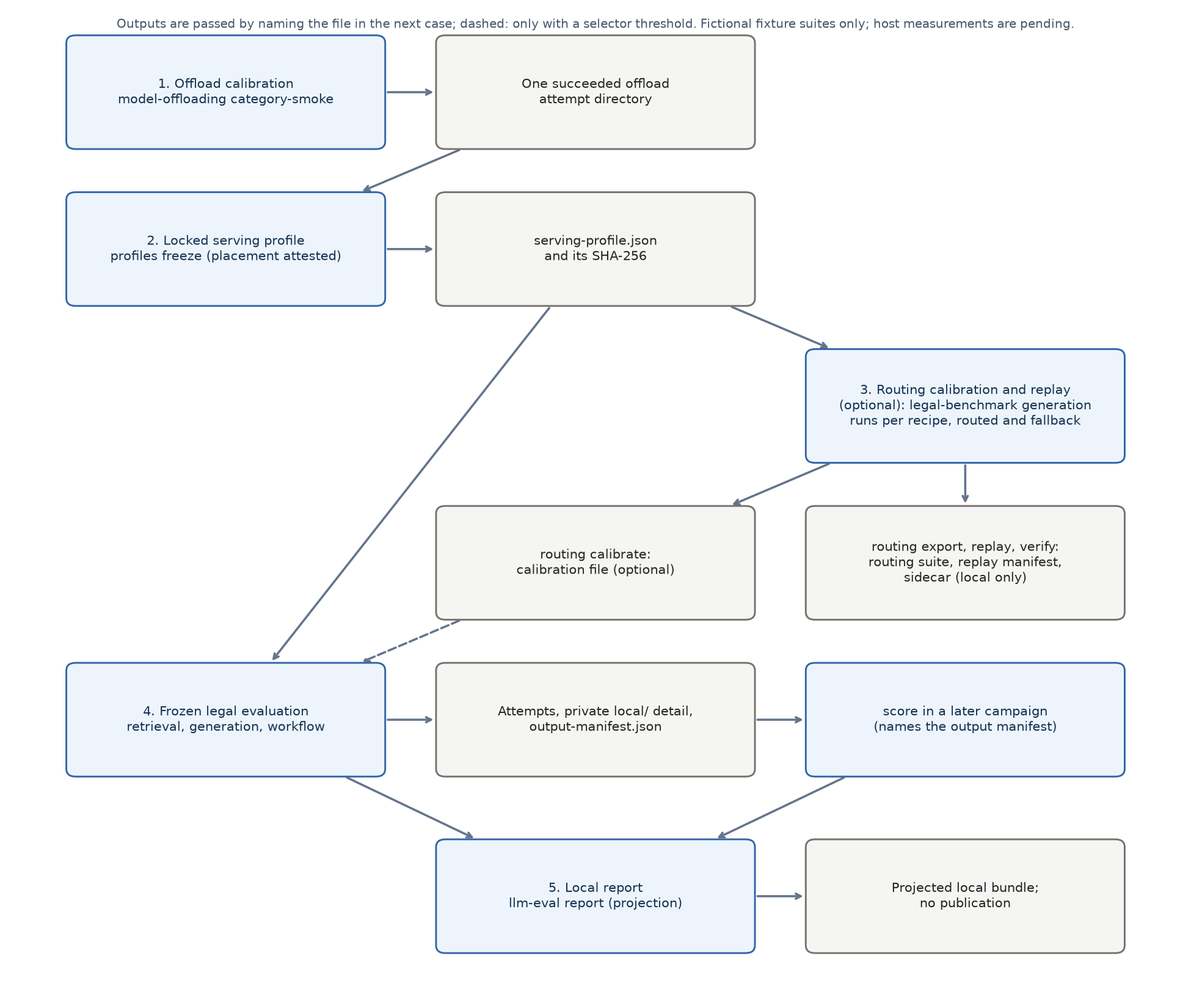
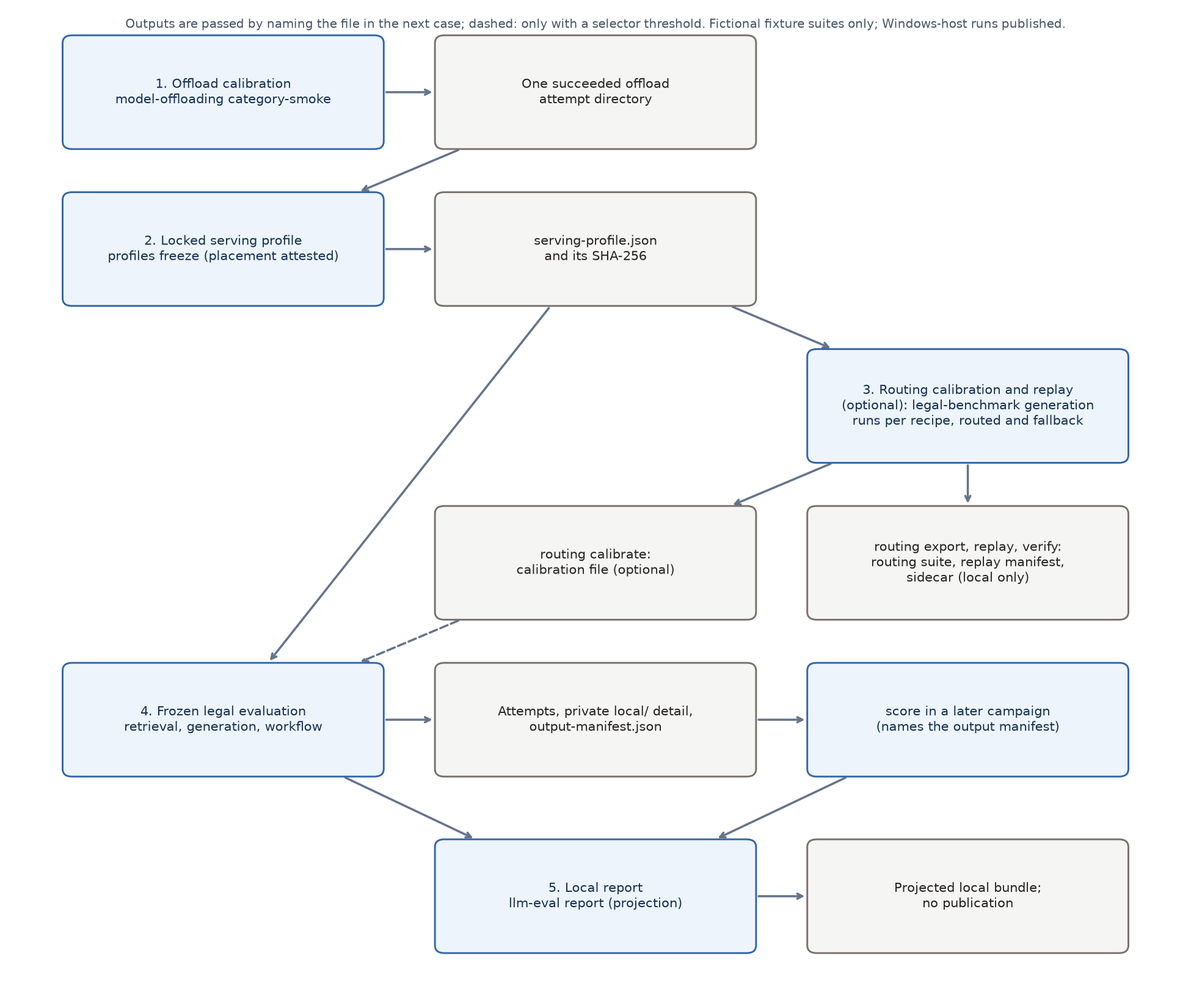
Say that four legal result bundles are published
Four bundles of the approved public-synthetic fixture suite
`legal-original-smoke` were run on the Windows host on 2026-11-15 and
published on 2026-11-17 (generation, workflow, score and retrieval),
each after its own authorization. The documents still said that no
legal bundle was published and that no host measurement existed.

- The results guide, the walkthrough, the experiment README and the
  examples README now say what was published, that publication stays
  a separately authorized step and never part of a campaign, and that
  human review of the outputs is pending. A correction from that
  review is a new bundle with its own authorization.
- The four authorizations were written through the `confirm` hook of
  `reporting.authorize`, from the operator's written instruction, not
  by typing the run id back on a terminal. The experiment README and
  the walkthrough said only the terminal path, so both name the hook.
- The top-level README row, the experiment README status banner, the
  walkthrough provenance note, its target-host line and the pointer to
  the host cells are dated to 2026-11-13 and point to the published
  runs. The sentence "Host measurements are pending." stays because a
  test pins it, and now says it describes the walkthrough as written.
- The subtitle of the legal workflow diagram said that host
  measurements are pending. It now says that Windows-host runs are
  published, and the PNG is re-rendered from scripts/render_legal_diagram.py
[…]

diff --git a/scripts/render_legal_diagram.py b/scripts/render_legal_diagram.py
@@ -47,7 +47,7 @@ for label,x,y,stage in NODES.values():
                              edgecolor='#3265a8' if stage else '#78716c',linewidth=1.4,zorder=2))
  ax.text(x,y,label,ha='center',va='center',fontsize=10,color='#173452' if stage else '#292524',zorder=3)
 ax.text(.5,.995,'Outputs are passed by naming the file in the next case; dashed: only with a selector threshold. '
-        'Fictional fixture suites only; host measurements are pending.',ha='center',va='top',fontsize=9.5,color='#475569')
+        'Fictional fixture suites only; Windows-host runs published.',ha='center',va='top',fontsize=9.5,color='#475569')
 fig.tight_layout();fig.savefig(ROOT/'diagrams/legal-benchmark-workflow.png',dpi=150,metadata={'Software':'llm-eval'});plt.close(fig)
 source=('# Legal benchmark workflow\n\nThe five stages of the [legal benchmark walkthrough](../docs/LEGAL_BENCHMARK_WALKTHROUGH.md) and the explicit '
         'output of each. A phase dependency only orders jobs; the next stage names the output file in its case. Stage 3 is '

diff --git a/experiments/legal-benchmark/README.md b/experiments/legal-benchmark/README.md
@@ -2,9 +2,9 @@
 
 Measures whether locally served models can retrieve applicable law, analyze a matter packet and draft a source-grounded internal screening memo **for human review**. The experiment never files, charges, contacts anyone or discloses evidence, and every output carries `review_required: true`.
 
-Status: **[issue #45](https://github.com/asanderson/llm-eval/issues/45): every mode implemented; host measurements pending**. The offline `smoke` mode runs a deterministic rule-based pipeline over fictional matters with no model, network or GPU, to pin the contracts and prove the campaign loop. The `retrieval` mode measures retrieval arms over the same suites. The `generation` and `workflow` modes send bounded requests to a locally served generator and verify, grade and render what comes back; `score` grades the stored outputs of such a run again. None of this says anything about any model's legal quality: these modes were verified only against a scripted loopback test server whose replies are fixtures, and no host measurement has been taken yet. Fixture and fake-endpoint outputs are not measurements.
+Status: **[issue #45](https://github.com/asanderson/llm-eval/issues/45): every mode implemented; four Windows-host runs of the fixture suite published, human review pending**. The offline `smoke` mode runs a deterministic rule-based pipeline over fictional matters with no model, network or GPU, to pin the contracts and prove the campaign loop. The `retrieval` mode measures retrieval arms over the same suites. The `generation` and `workflow` modes send bounded requests to a locally served generator and verify, grade and render what comes back; `score` grades the stored outputs of such a run again. None of this says anything about any model's legal quality: until the Windows-host runs below, these modes were verified only against a scripted loopback test server whose replies are fixtures. Four Windows-host runs of the approved fixture suite were published on 2026-11-17 (see [Legal benchmark reports](../../docs/RESULTS.md#legal-benchmark-reports)): `retrieval` is a fixture run with no model, `generation` and `workflow` ran a locally served model, and `score` grades stored outputs. All four await human review, and the other host cells have no run yet. Fixture and fake-endpoint outputs are not measurements.
 
-The [legal benchmark walkthrough](../../docs/LEGAL_BENCHMARK_WALKTHROUGH.md) runs the five stages from offload calibration to the local report, with status, resume and cancel, roles, source permissions, trust boundaries and the human review checklist. What was verified, the host cells (all `not run`), the gated plan requirements and the open review checklists are in [VALIDATION.md](../../docs/VALIDATION.md#legal-benchmark-issue-45). Example campaigns, one per host OS, are in [`configs/examples/legal/`](../../configs/examples/legal/).
+The [legal benchmark walkthrough](../../docs/LEGAL_BENCHMARK_WALKTHROUGH.md) runs the five stages from offload calibration to the local report, with status, resume and cancel, roles, source permissions, trust boundaries and the human review checklist. What was verified, the host cells (all `not run` when recorded on 2026-11-13), the gated plan requirements and the open review checklists are in [VALIDATION.md](../../docs/VALIDATION.md#legal-benchmark-issue-45). Example campaigns, one per host OS, are in [`configs/examples/legal/`](../../configs/examples/legal/).
 
 | Mode | State | What it does |
 |---|---|---|
@@ -161,7 +161,7 @@ Candidate drafts and grader detail (`local/candidate-outputs.jsonl`, `local/scor
 
 **The projection.** A legal report is the projection, never the generic scan: a strict recursive allowlist of enumerated categories, opaque ids, hashes, versioned numbers, approved settings, coverage and coarse status. An unexpected key, a wrong type, free text or a path anywhere is `ProjectionRejected` with a schema position (`request.category`, `request.<unknown key>`), never a value. A symbolic link anywhere from the campaign directory down to a file read, and a campaign directory under a directory named `reports` or `model_judgment`, are refused. The bundle holds exactly `README.md`, `manifest.json`, `summary.json`, `summary.csv`, `resolved-config.json`, `legal-summary.json` and `raw/measurements.jsonl.gz`, no chart, all written as canonical bytes (sorted JSON with LF, CSV with LF, GZIP with a fixed header and stored blocks) before they are hashed. Per-matter rows leave for the `smoke` mode only: exactly, for an approved suite with `fixture_export` (its matter ids and `expected_choice` are fixture data), and reduced otherwise (ids replaced by salted pseudonyms from `projection-salt` beside `experiment.json`, which never enters a bundle; scenarios become `all`; decision, quality, hash and token keys dropped; the strings of the lock omitted). The `retrieval`, `generation`, `workflow` and `score` modes publish no per-matter row at all: per-matter `choice` or `abstained` with `quality_pass`, and the per-matter retrieval metrics, are gold label channels. `legal-summary.json` carries one cohort per job and arm with every metric as `{value, n, low, high, missing}`: counts by row status, the means of the eleven retrieval metrics, medians and 95th percentiles of the timings, the truncation, revision, fallback and selector-deferral rates, and every `grading.aggregate` metric over the validated score detail (family bootstrap intervals for the pass, criterion and error rates; both class confusions; `critical_errors` and `critical_unreviewed`; the three kinds of missing score), plus paired differences between the arms of a generation, workflow or score job. The legal summary grades every arm, the reference arm included; `summary.json` excludes the reference arm (its rows publish no number), its `quality_pass_rate` is the exact-version pass rate for a retrieval job, and it has no quality rate under a reduced projection. A cohort covers experiment, mode, execution kind, data class, suite and split, policy, rubric, scorer and reviewer, arm with the retrieval settings and selector, every role digest, the generator's model, revision, artifact, quantization, platform, backend and protocol, the prompt template, the generation settings, OS, hardware profile, accelerator, context and output budget; two runs are comparable only when their cohort digests are equal.
 
-**Publication.** The plan of issue 45 states: "No authorization to access private matter inputs or publish a results bundle is implied by this plan." `llm-eval publish-results` publishes a legal report only when `reporting.verify_publication` passes, in this order: the report sits in its campaign layout under a campaign directory named as `scheduler.initialize` names it (`provenance_missing`); the manifest carries the projection marker and canonical bytes (`legacy_report`); the stored plan matches its digest (`plan_changed`); every job of the run is `approved` by the installed package's own approved list (`unverified`, `not_approved`; the `--project-root` of the command names the repository for Git only, so a crafted directory approves nothing), and by the approved list as committed on the remote base branch, fetched with an explicit refspec into the private ref `refs/llm-eval/publish-base` (`not_approved_upstream`: a local edit of the list, a local commit or a moved `origin/<base>` approves nothing; the private ref is deleted when the publication ends, published or refused); the latest attempt of each job succeeded, its metadata names the approved lock, and the coordinator's receipt in `campaign.json` holds the digests of `requests.jsonl`, `metadata.json` (and so of the lock it names), `local/score-detail.jsonl` and the output manifest as they are now; a `score` job also needs its source attempt to sit in a campaign layout whose record holds the digest of the output manifest it scored (`receipt_mismatch`); the bundle and `publication.json` equal, byte for byte, the projection rebuilt from those inputs (`bundle_mismatch`: an edited file, label, repository, base branch, draft flag or recomputed fingerprint); and `publication-authorization.json` in the campaign directory names this run, fingerprint, suite locks, repository and base branch (`not_authorized`). A report manifest's own labels authorize nothing. `python -m llm_eval.experiments.legal_benchmark.reporting authorize --campaign-dir DIR --experiment-run ID --approved-by ROLE` verifies the report, shows what would be published and writes the authorization only after the run id is typed back on an interactive terminal; it is the separately authorized step, and nothing in this repository runs it. During publication every staged and committed file under the report path is compared with the manifest that was validated before push (`Staged files differ from the manifest`, `Committed bytes differ from the manifest: <file>`), a publication branch whose content differs from the fetched base in `approved-suites.json` is refused (`Publication branch changes a protected file`), and nothing is re-hashed or re-receipted to make bytes match; `*.gz` is `-text` in `.gitattributes`. Historical bundles of the other experiments are not touched and are not blob-checked.
+**Publication.** The plan of issue 45 states: "No authorization to access private matter inputs or publish a results bundle is implied by this plan." `llm-eval publish-results` publishes a legal report only when `reporting.verify_publication` passes, in this order: the report sits in its campaign layout under a campaign directory named as `scheduler.initialize` names it (`provenance_missing`); the manifest carries the projection marker and canonical bytes (`legacy_report`); the stored plan matches its digest (`plan_changed`); every job of the run is `approved` by the installed package's own approved list (`unverified`, `not_approved`; the `--project-root` of the command names the repository for Git only, so a crafted directory approves nothing), and by the approved list as committed on the remote base branch, fetched with an explicit refspec into the private ref `refs/llm-eval/publish-base` (`not_approved_upstream`: a local edit of the list, a local commit or a moved `origin/<base>` approves nothing; the private ref is deleted when the publication ends, published or refused); the latest attempt of each job succeeded, its metadata names the approved lock, and the coordinator's receipt in `campaign.json` holds the digests of `requests.jsonl`, `metadata.json` (and so of the lock it names), `local/score-detail.jsonl` and the output manifest as they are now; a `score` job also needs its source attempt to sit in a campaign layout whose record holds the digest of the output manifest it scored (`receipt_mismatch`); the bundle and `publication.json` equal, byte for byte, the projection rebuilt from those inputs (`bundle_mismatch`: an edited file, label, repository, base branch, draft flag or recomputed fingerprint); and `publication-authorization.json` in the campaign directory names this run, fingerprint, suite locks, repository and base branch (`not_authorized`). A report manifest's own labels authorize nothing. `python -m llm_eval.experiments.legal_benchmark.reporting authorize --campaign-dir DIR --experiment-run ID --approved-by ROLE` verifies the report, shows what would be published and writes the authorization only after the run id is typed back on an interactive terminal, or, when the caller of the function passes its `confirm` hook, after the hook returns true; it is the separately authorized step, and nothing in this repository runs it. The four bundles published on 2026-11-17 were authorized through the hook, from the operator's written instruction. During publication every staged and committed file under the report path is compared with the manifest that was validated before push (`Staged files differ from the manifest`, `Committed bytes differ from the manifest: <file>`), a publication branch whose content differs from the fetched base in `approved-suites.json` is refused (`Publication branch changes a protected file`), and nothing is re-hashed or re-receipted to make bytes match; `*.gz` is `-text` in `.gitattributes`. Historical bundles of the other experiments are not touched and are not blob-checked.
 
 **Lineage.** When an attempt finishes, the coordinator records in `campaign.json`: `file_sha256` (the digests of `requests.jsonl`, `metadata.json` and `local/score-detail.jsonl` where present; the digest of `metadata.json` binds the suite lock it names) and, for a generation or workflow attempt, `output_manifest_sha256`. The projection refuses an attempt whose files differ from a receipt that names them (`receipt_mismatch`); publication also refuses a receipt that is missing. `score`, the routing replay verification and calibration read a source attempt only through `grading._manifest`, which, when the attempt sits in its campaign layout, requires its record to hold the manifest's digest (`Output manifest differs from the campaign record`, or `Campaign record has no output-manifest digest (campaign written before this check)`). An attempt copied out of its campaign layout has no record to check against: it can be scored locally, and a score job over it cannot be published. An attempt in a campaign written before this package therefore cannot be scored, replayed or used for calibration in place (copy it out, or re-run it); a smoke campaign of that age still resumes and gets its local report, and cannot be published. An unreserved role `resource_host` is refused at run start, not at plan time.
 
@@ -171,7 +171,7 @@ Candidate drafts and grader detail (`local/candidate-outputs.jsonl`, `local/scor
 
 **Threat model and what remains.** The gates stop mistakes, lazy relabels and partial edits by an operator, and let no unapproved or private suite's numbers out through this code without a deliberate forgery of several files. They do not stop a person who rewrites every file by hand. A hand relabel that passes must: rename every experiment label (publication spec, manifest, resolved configuration, jobs, report and chart paths); remove `legal-summary.json`, the projection keys of the manifest and the row keys `family_id`, `review_status`, `suite_lock_sha256` and the route keys; rename every benchmark name this plugin writes (`legal-smoke`, `legal-routing`, `legal-shaped`, the benchmark id of an approved suite) and every task id; rewrite `README.md` and every other text file, the raw archive included, so that no legal marker above remains, including the legal run id in the report directory name and the publication id; and move the report out from below any campaign directory, or else relabel the plan, the experiment record and every attempt's `job.json` and `metadata.json` too. Such a bundle carries no mark this code can recognise, and a person can push any bytes with their own Git client. A consistent forgery of `campaign.json` together with the attempt files and the output manifest also passes the receipt checks. Review of the publication pull request is the remaining control.
 
-**Not built here.** No legal bundle is published by this repository. Private matter is never transferred or published in any form; the class exists so that every gate can refuse it. Authentication of `plan.json` with a key is not built.
+**Not built here.** Automatic publication of a legal bundle is not built and stays refused: publication needs the separately authorized `authorize` step above. Four bundles of the approved public-synthetic fixture suite `legal-original-smoke` were published through that step on 2026-11-17, and human review of their outputs is pending. Private matter is never transferred or published in any form; the class exists so that every gate can refuse it. Authentication of `plan.json` with a key is not built.
 
 ## Changing the fixtures
 

diff --git a/docs/LEGAL_BENCHMARK_WALKTHROUGH.md b/docs/LEGAL_BENCHMARK_WALKTHROUGH.md
@@ -1,6 +1,6 @@
 # Legal benchmark walkthrough
 
-**Output provenance.** This walkthrough was written from the code of the `legal-benchmark` experiment and its tests. While writing it, these commands were run on a Windows development host, CPU only: the repository's unit tests (scripted loopback test servers stand in for every model), `llm-eval experiments list`, the read-only `llm-eval plan` of the example campaigns, `llm-eval matrix` with its output outside the checkout, and `scripts/render_legal_diagram.py`. No model was served, no GPU was used, and no campaign was set up or run on a target host. Every output block below is illustrative expected output, not a measurement: values in angle brackets are placeholders. Host measurements are pending.
+**Output provenance.** This walkthrough was written from the code of the `legal-benchmark` experiment and its tests. While writing it, these commands were run on a Windows development host, CPU only: the repository's unit tests (scripted loopback test servers stand in for every model), `llm-eval experiments list`, the read-only `llm-eval plan` of the example campaigns, `llm-eval matrix` with its output outside the checkout, and `scripts/render_legal_diagram.py`. No model was served, no GPU was used, and no campaign was set up or run on a target host. Every output block below is illustrative expected output, not a measurement: values in angle brackets are placeholders. Host measurements are pending. That describes this walkthrough as written on 2026-11-13: four Windows-host runs of the approved fixture suite were published on 2026-11-17 and are listed under [Legal benchmark reports](RESULTS.md#legal-benchmark-reports).
 
 The experiment drafts internal screening memos **for human review** over a **fictional jurisdiction with original authorities** (the "Commonwealth of Veld" fixtures). It never files, charges, contacts anyone or discloses evidence. The plan this walkthrough implements states the scope:
 
@@ -141,7 +141,7 @@ The report directory `CAMPAIGN_DIR/experiments/RUN_ID/report/` holds `publicatio
 
 > A legal report is the projection, never the generic scan: a strict recursive allowlist of enumerated categories, opaque ids, hashes, versioned numbers, approved settings, coverage and coarse status.
 
-Nothing is published: see [Results](RESULTS.md#legal-benchmark-reports).
+The report step publishes nothing: publication is the separately authorized step, see [Results](RESULTS.md#legal-benchmark-reports).
 
 ## Status, resume and cancel
 
@@ -219,7 +219,7 @@ Candidate-side code receives only `contracts.candidate_view(suite)`: the lock (l
 
   > Differencing is not prevented: two reduced runs over overlapping subsets (five matters and the same five plus a sixth) can be subtracted to give the sixth matter's result.
 
-- **Publication.** Manual publication needs `publication-authorization.json`, which `python -m llm_eval.experiments.legal_benchmark.reporting authorize` writes only after the run id is typed back on an interactive terminal; no legal bundle has been published, and nothing in this repository runs `authorize`. See [Publication](../experiments/legal-benchmark/README.md#classification-gates-and-the-report-projection).
+- **Publication.** Manual publication needs `publication-authorization.json`, which `python -m llm_eval.experiments.legal_benchmark.reporting authorize` writes only after the run id is typed back on an interactive terminal; a Python caller of `reporting.authorize` can instead pass a `confirm` hook, and the authorization is then written once the hook returns true. Four bundles of the approved public-synthetic fixture suite have been published, each after its own authorization given through that hook (see [Legal benchmark reports](RESULTS.md#legal-benchmark-reports)). No campaign or code of this repository runs `authorize`. See [Publication](../experiments/legal-benchmark/README.md#classification-gates-and-the-report-projection).
 
   > A report manifest's own labels authorize nothing.
 
@@ -282,7 +282,7 @@ python -m unittest discover -s tests -v
 
 `experiments list` shows the five legal modes; both plans print and create no file; the full suite ends with `OK`. The result of this sequence on the development host is recorded in [VALIDATION.md](VALIDATION.md#legal-benchmark-issue-45).
 
-Target-host sequence, per host cell, one campaign at a time on the Raider. **Not run in this effort.** `setup` and `run` reserve the `raider` host lock.
+Target-host sequence, per host cell, one campaign at a time on the Raider. **Not run in the effort that wrote this walkthrough (2026-11-13); the Windows cell has been run since, see [Legal benchmark reports](RESULTS.md#legal-benchmark-reports).** `setup` and `run` reserve the `raider` host lock.
 
 ```bash
 bash scripts/readiness.sh --campaign configs/local/legal/raider-HOST/legal-evaluation-campaign.json --json-output OUTSIDE_DIR/readiness-legal.json

diff --git a/docs/RESULTS.md b/docs/RESULTS.md
@@ -68,7 +68,7 @@ Network/authentication failures retain the full local report, mark publication f
 
 ## Legal benchmark reports
 
-**No legal result bundle has been published, and none is published automatically.** "No authorization to access private matter inputs or publish a results bundle is implied by this plan." The rules are stated once, in the [experiment README](../experiments/legal-benchmark/README.md#classification-gates-and-the-report-projection); this section quotes them or links to them, and the [walkthrough](LEGAL_BENCHMARK_WALKTHROUGH.md) shows where each applies.
+**Four legal result bundles have been published, none automatically.** They are the `generation`, `workflow`, `score` and `retrieval` runs of the approved public-synthetic fixture suite `legal-original-smoke` on the Windows host, run on 2026-11-15 and published on 2026-11-17; the [legal-benchmark index](results/index/experiment/legal-benchmark.md) lists them. Each needed its own authorization of the run, recorded from the operator's written instruction. No bundle holds private matter. Human review of their outputs is pending. A correction from that review is a new bundle with its own authorization and pull request. The plan stays as written: "No authorization to access private matter inputs or publish a results bundle is implied by this plan." The rules are stated once, in the [experiment README](../experiments/legal-benchmark/README.md#classification-gates-and-the-report-projection); this section quotes them or links to them, and the [walkthrough](LEGAL_BENCHMARK_WALKTHROUGH.md) shows where each applies.
 
 **Projection instead of the generic scan.** A `legal-benchmark` report is built by the plugin's `report_projection`, never by the scan of the attempt directories described above; `reporting.include_outputs` changes nothing for it.
 

diff --git a/README.md b/README.md
@@ -6,7 +6,7 @@ A reproducible lab for running **versioned LLM experiments** across hardware con
 |---|---|---|
 | Model offloading | Quality, latency, throughput, and CPU/GPU/disk placement for models exceeding GPU VRAM | [Original experiment and model catalog](experiments/model-offloading/README.md) |
 | LLM routing | Decision accuracy, replay selection quality, and live downstream quality/latency/API cost | [Routing guide](experiments/llm-routing/README.md) |
-| Legal benchmark | Retrieval of applicable law and source-grounded draft screening memos for human review, over a fictional jurisdiction; fixtures only so far, host measurements pending | [Legal benchmark guide](experiments/legal-benchmark/README.md) |
+| Legal benchmark | Retrieval of applicable law and source-grounded draft screening memos for human review, over a fictional jurisdiction; fictional fixture suite only; four Windows-host runs published (generation and workflow on a served model, score, fixture retrieval), human review pending | [Legal benchmark guide](experiments/legal-benchmark/README.md) |
 
 The original target is the MSI Raider 18 HX AI with RTX 5090 Laptop 24 GiB, 64 GiB RAM, and native Ubuntu, native Windows, or WSL. Additional machines use their own profiles and execution targets. **Fixture tests are not real hardware benchmarks.** See the [validation record](docs/VALIDATION.md) for hardware acceptance gates.
 

diff --git a/configs/examples/legal/README.md b/configs/examples/legal/README.md
@@ -58,4 +58,4 @@ A role served on another physical host names it in `resource_host`. Its `endpoin
 
 ## Publication
 
-A routing or offload bundle built from a legal export cannot be published: its benchmark names (`legal-routing`, `legal-shaped`) start with `legal-`, which the legal plugin claims, so `publish-results` finds a second experiment identity in the bundle and refuses it. Local reports are unaffected. No legal result bundle is published by this effort.
+A routing or offload bundle built from a legal export cannot be published: its benchmark names (`legal-routing`, `legal-shaped`) start with `legal-`, which the legal plugin claims, so `publish-results` finds a second experiment identity in the bundle and refuses it. Local reports are unaffected. A legal result bundle is published only by the separately authorized step, never by a campaign: `publish.mode` is `none` in every campaign file here.
